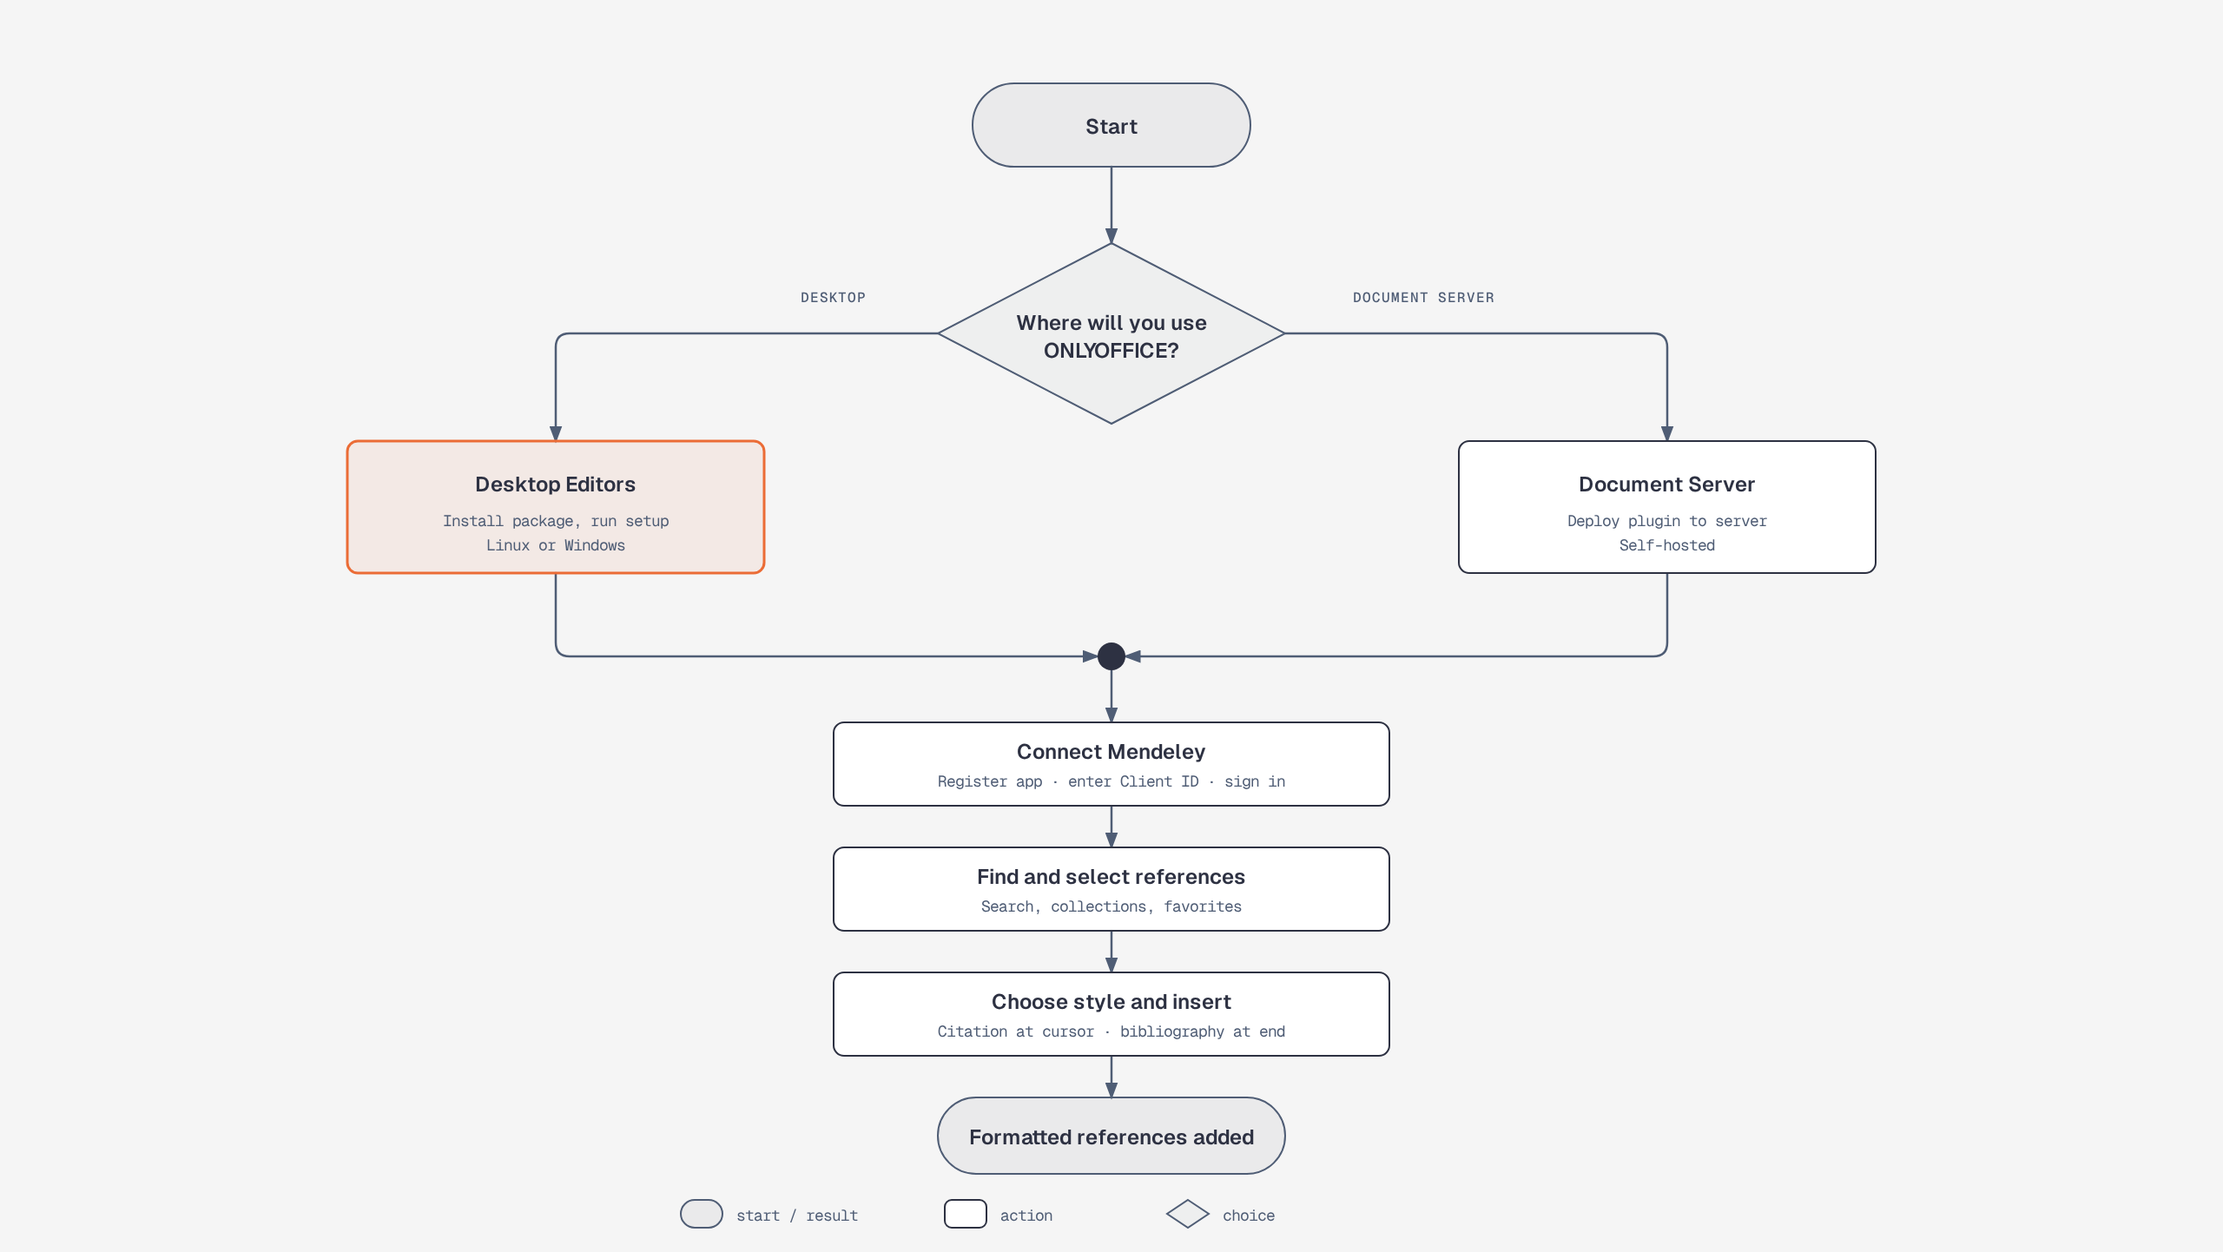
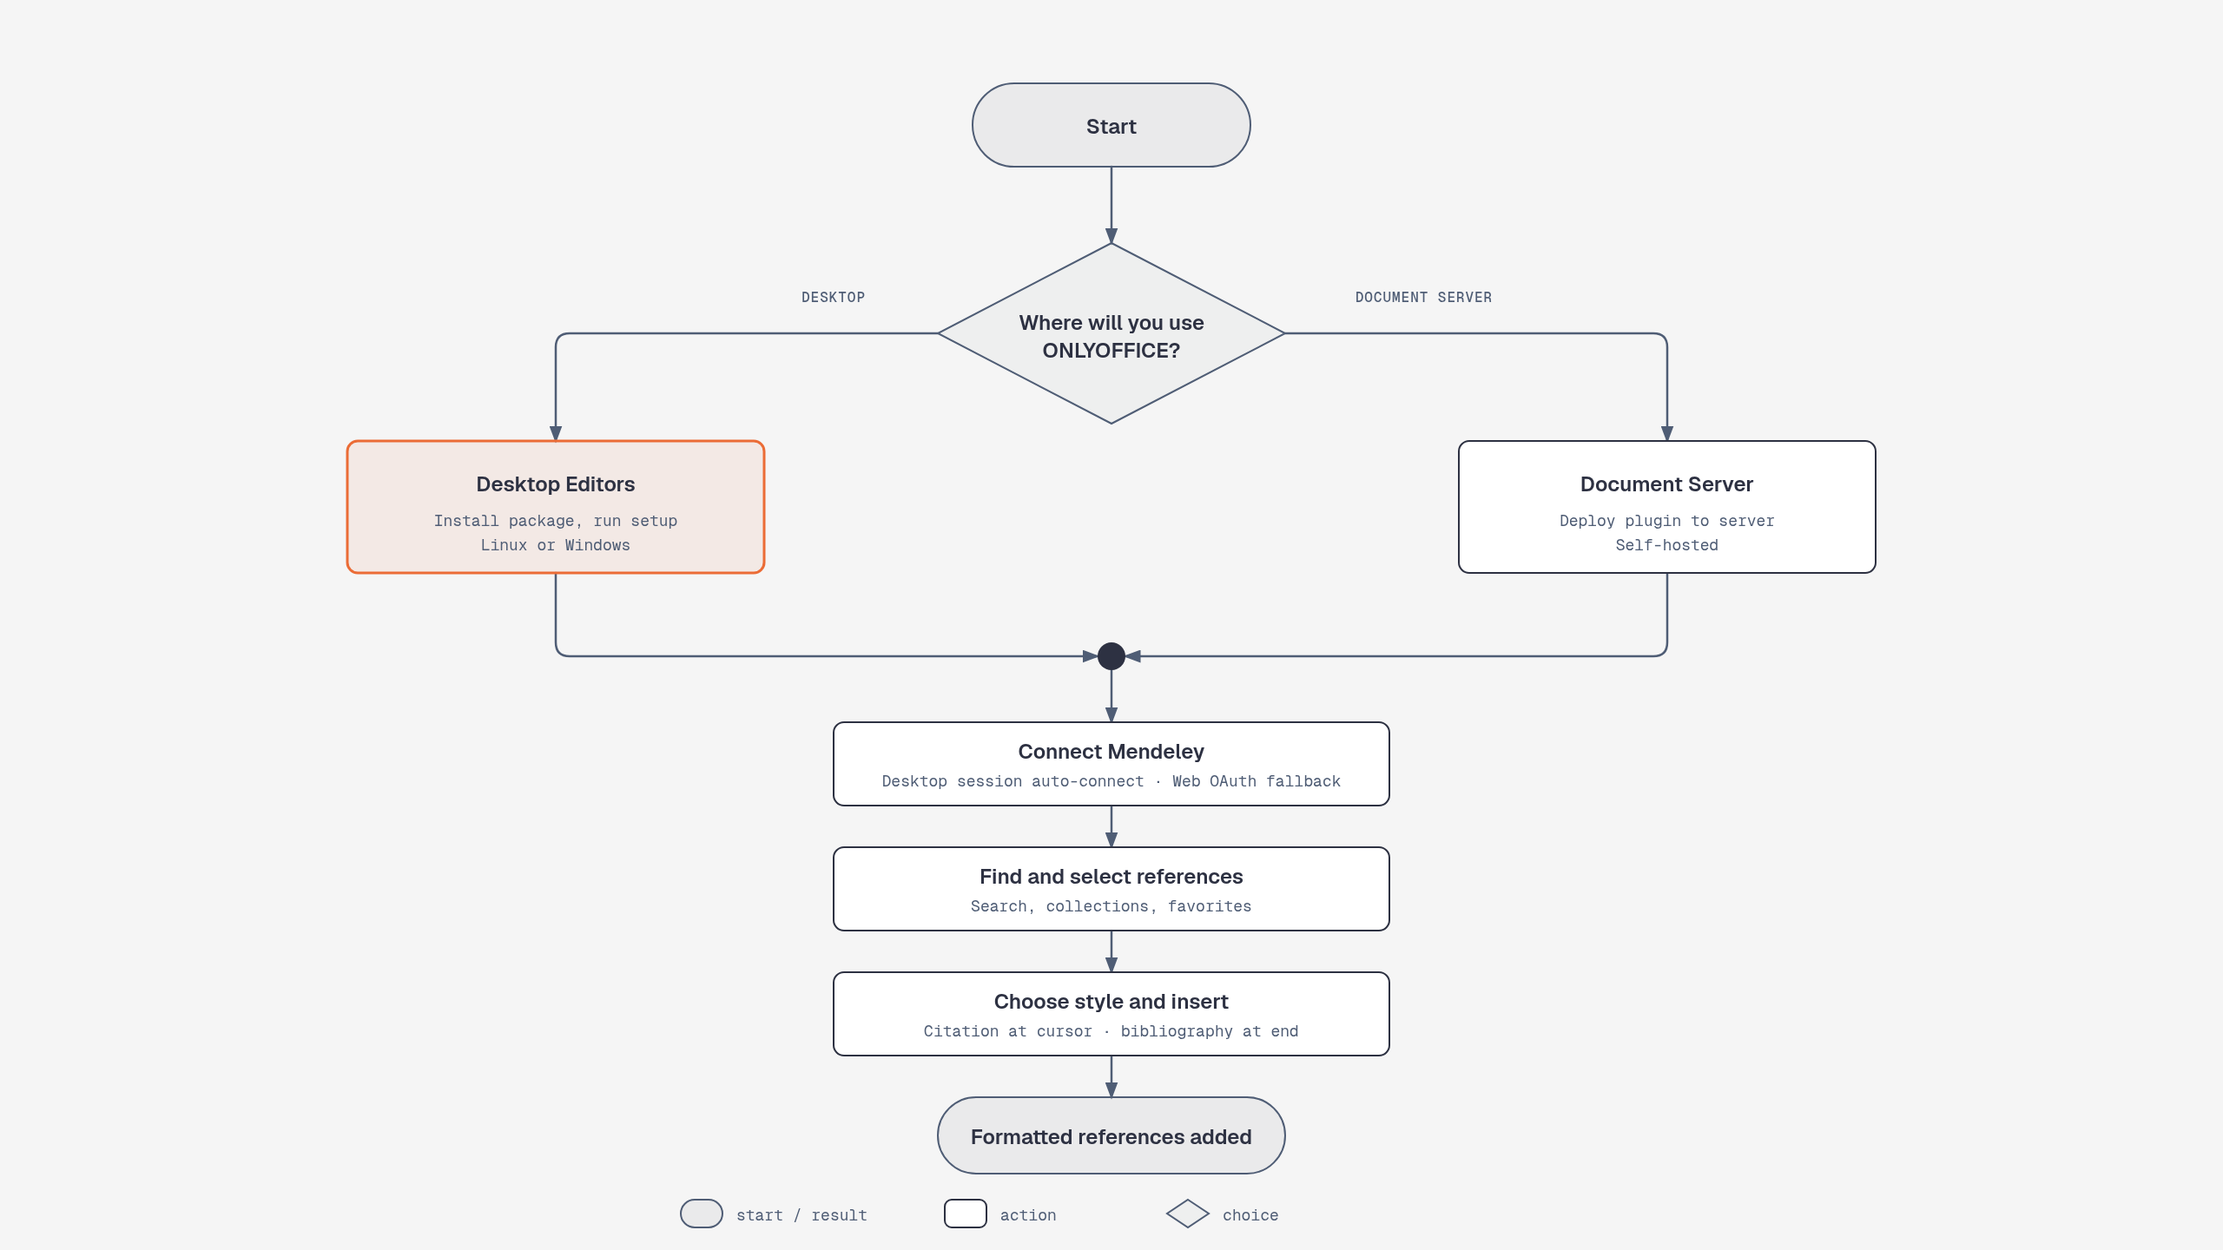
docs: update authentication and workflow diagrams

diff --git a/docs/mendeley-auth-sequence.html b/docs/mendeley-auth-sequence.html
@@ -35,86 +35,85 @@
     <div class="diagram-container">
       <svg viewBox="0 0 960 600" xmlns="http://www.w3.org/2000/svg" role="img" aria-labelledby="mendeley-auth-title mendeley-auth-desc">
         <title id="mendeley-auth-title">Mendeley OAuth flow</title>
-        <desc id="mendeley-auth-desc">Shows Desktop Editors and Document Server OAuth callbacks, token storage, and authenticated Mendeley API access.</desc>
+        <desc id="mendeley-auth-desc">Shows manual sign-in, helper token cleanup, Desktop and Document Server callbacks, local token storage, and authenticated API access.</desc>
         <defs>
           <marker id="mendeley-auth-arrow" markerWidth="8" markerHeight="6" refX="7" refY="3" orient="auto"><polygon points="0 0, 8 3, 0 6" fill="#4f5d75"/></marker>
           <marker id="mendeley-auth-arrow-return" markerWidth="8" markerHeight="6" refX="7" refY="3" orient="auto"><polygon points="0 0, 8 3, 0 6" fill="#4f5d75"/></marker>
           <marker id="mendeley-auth-arrow-link" markerWidth="8" markerHeight="6" refX="7" refY="3" orient="auto"><polygon points="0 0, 8 3, 0 6" fill="#2e5aa8"/></marker>
-          <marker id="mendeley-auth-arrow-accent" markerWidth="8" markerHeight="6" refX="7" refY="3" orient="auto"><polygon points="0 0, 8 3, 0 6" fill="#eb6c36"/></marker>
         </defs>
         <rect width="960" height="600" fill="#f5f5f5"/>
 
-        <g>
-          <rect x="156" y="156" width="744" height="256" rx="4" fill="rgba(45,49,66,0.02)" stroke="rgba(45,49,66,0.22)"/>
-          <rect x="156" y="156" width="40" height="16" rx="2" fill="#f5f5f5" stroke="rgba(45,49,66,0.22)"/>
-          <text x="176" y="168" fill="#4f5d75" font-family="'Geist Mono',monospace" font-size="8" text-anchor="middle" letter-spacing=".12em">ALT</text>
-          <text x="208" y="168" fill="#4f5d75" font-family="'Geist Mono',monospace" font-size="8">[Desktop Editors]</text>
-          <line x1="164" y1="312" x2="892" y2="312" stroke="rgba(45,49,66,0.20)" stroke-dasharray="4,3"/>
-          <text x="168" y="328" fill="#4f5d75" font-family="'Geist Mono',monospace" font-size="8">[Document Server]</text>
-        </g>
         <g fill="none" stroke="#7a8399" stroke-width="1" stroke-dasharray="3,3">
-          <line x1="156" y1="108" x2="156" y2="528"/>
-          <line x1="320" y1="108" x2="320" y2="528"/>
-          <line x1="505" y1="108" x2="505" y2="528"/>
-          <line x1="684" y1="108" x2="684" y2="528"/>
-          <line x1="852" y1="108" x2="852" y2="528"/>
+          <line x1="112" y1="104" x2="112" y2="536"/>
+          <line x1="296" y1="104" x2="296" y2="536"/>
+          <line x1="480" y1="104" x2="480" y2="536"/>
+          <line x1="664" y1="104" x2="664" y2="536"/>
+          <line x1="848" y1="104" x2="848" y2="536"/>
+        </g>
+
+        <g>
+          <rect x="276" y="152" width="596" height="296" rx="4" fill="rgba(45,49,66,0.02)" stroke="rgba(45,49,66,0.22)"/>
+          <rect x="276" y="152" width="40" height="16" rx="2" fill="#f5f5f5" stroke="rgba(45,49,66,0.22)"/>
+          <text x="296" y="164" fill="#4f5d75" font-family="'Geist Mono',monospace" font-size="8" text-anchor="middle" letter-spacing=".12em">ALT</text>
+          <text x="328" y="164" fill="#4f5d75" font-family="'Geist Mono',monospace" font-size="8">[Desktop Editors]</text>
+          <line x1="284" y1="332" x2="864" y2="332" stroke="rgba(45,49,66,0.20)" stroke-dasharray="4,3"/>
+          <text x="296" y="350" fill="#4f5d75" font-family="'Geist Mono',monospace" font-size="8">[Document Server]</text>
         </g>
 
         <g fill="none" stroke="#4f5d75" stroke-width="1.2" marker-end="url(#mendeley-auth-arrow)">
-          <line x1="156" y1="136" x2="320" y2="136"/>
-          <line x1="320" y1="196" x2="852" y2="196"/>
-          <line x1="320" y1="220" x2="505" y2="220"/>
-          <line x1="505" y1="244" x2="852" y2="244"/>
-          <line x1="320" y1="268" x2="852" y2="268"/>
-          <line x1="320" y1="340" x2="505" y2="340"/>
-          <line x1="505" y1="368" x2="684" y2="368"/>
+          <line x1="112" y1="128" x2="296" y2="128"/>
+          <line x1="296" y1="196" x2="848" y2="196"/>
+          <line x1="296" y1="224" x2="480" y2="224" marker-end="url(#mendeley-auth-arrow-link)"/>
+          <line x1="480" y1="252" x2="848" y2="252"/>
+          <line x1="296" y1="280" x2="848" y2="280"/>
+          <line x1="296" y1="376" x2="480" y2="376" marker-end="url(#mendeley-auth-arrow-link)"/>
+          <line x1="480" y1="404" x2="664" y2="404"/>
+          <line x1="296" y1="504" x2="480" y2="504" marker-end="url(#mendeley-auth-arrow-link)"/>
         </g>
-        <g fill="none" stroke="#4f5d75" stroke-width="1.2" stroke-dasharray="5,4">
-          <line x1="852" y1="292" x2="320" y2="292" marker-end="url(#mendeley-auth-arrow-return)"/>
-          <line x1="684" y1="396" x2="320" y2="396" marker-end="url(#mendeley-auth-arrow-return)"/>
+        <g fill="none" stroke="#4f5d75" stroke-width="1.2" stroke-dasharray="5,4" marker-end="url(#mendeley-auth-arrow-return)">
+          <line x1="848" y1="308" x2="296" y2="308"/>
+          <line x1="664" y1="432" x2="296" y2="432"/>
+          <line x1="480" y1="532" x2="296" y2="532"/>
         </g>
-        <g fill="none" stroke="#2e5aa8" stroke-width="1.2" marker-end="url(#mendeley-auth-arrow-link)">
-          <line x1="320" y1="472" x2="505" y2="472"/>
+        <g fill="none" stroke="#4f5d75" stroke-width="1.2">
+          <path d="M296 472h20v24h-20" marker-end="url(#mendeley-auth-arrow)"/>
         </g>
-        <g fill="none" stroke="#4f5d75" stroke-width="1.2" stroke-dasharray="5,4">
-          <line x1="505" y1="508" x2="320" y2="508" marker-end="url(#mendeley-auth-arrow-return)"/>
-        </g>
-
 
         <g font-family="'Geist Mono',monospace" font-size="8" text-anchor="middle" letter-spacing=".06em" fill="#7a8399">
-          <rect x="190" y="116" width="72" height="12" rx="2" fill="#f5f5f5"/><text x="226" y="125">LOGIN</text>
-          <rect x="550" y="176" width="72" height="12" rx="2" fill="#f5f5f5"/><text x="586" y="185">CLEAR TOKEN</text>
-          <rect x="370" y="200" width="84" height="12" rx="2" fill="#f5f5f5"/><text x="412" y="209">AUTHORIZE</text>
-          <rect x="630" y="224" width="96" height="12" rx="2" fill="#f5f5f5"/><text x="678" y="233">REDIRECT TOKEN</text>
-          <rect x="550" y="248" width="72" height="12" rx="2" fill="#f5f5f5"/><text x="586" y="257">GET /TOKEN</text>
-          <rect x="550" y="272" width="72" height="12" rx="2" fill="#f5f5f5"/><text x="586" y="281">TOKEN FILE</text>
-          <rect x="370" y="320" width="84" height="12" rx="2" fill="#f5f5f5"/><text x="412" y="329">AUTHORIZE</text>
-          <rect x="550" y="348" width="88" height="12" rx="2" fill="#f5f5f5"/><text x="594" y="357">OAUTH.HTML</text>
-          <rect x="460" y="388" width="84" height="12" rx="2" fill="#f5f5f5"/><text x="502" y="397">TOKEN + STATE</text>
-          <rect x="370" y="452" width="84" height="12" rx="2" fill="#f5f5f5"/><text x="412" y="461">BEARER TOKEN</text>
-          <rect x="370" y="488" width="84" height="12" rx="2" fill="#f5f5f5"/><text x="412" y="497">DOCS / 401</text>
+          <rect x="164" y="108" width="80" height="12" rx="2" fill="#f5f5f5"/><text x="204" y="117">LOGIN</text>
+          <rect x="520" y="176" width="104" height="12" rx="2" fill="#f5f5f5"/><text x="572" y="185">DELETE /TOKEN</text>
+          <rect x="340" y="204" width="96" height="12" rx="2" fill="#f5f5f5"/><text x="388" y="213">AUTHORIZE</text>
+          <rect x="608" y="232" width="112" height="12" rx="2" fill="#f5f5f5"/><text x="664" y="241">REDIRECT TOKEN</text>
+          <rect x="556" y="260" width="88" height="12" rx="2" fill="#f5f5f5"/><text x="600" y="269">GET /TOKEN</text>
+          <rect x="548" y="288" width="112" height="12" rx="2" fill="#f5f5f5"/><text x="604" y="297">TOKEN RESPONSE</text>
+          <rect x="340" y="356" width="96" height="12" rx="2" fill="#f5f5f5"/><text x="388" y="365">AUTHORIZE</text>
+          <rect x="520" y="384" width="104" height="12" rx="2" fill="#f5f5f5"/><text x="572" y="393">REDIRECT TOKEN</text>
+          <rect x="420" y="412" width="96" height="12" rx="2" fill="#f5f5f5"/><text x="468" y="421">OAUTH CALLBACK</text>
+          <rect x="324" y="452" width="112" height="12" rx="2" fill="#f5f5f5"/><text x="380" y="461">STORE TOKEN</text>
+          <rect x="332" y="484" width="128" height="12" rx="2" fill="#f5f5f5"/><text x="396" y="493">BEARER REQUEST</text>
+          <rect x="328" y="512" width="112" height="12" rx="2" fill="#f5f5f5"/><text x="384" y="521">DATA / 401</text>
         </g>
 
         <g font-family="'Geist',sans-serif" text-anchor="middle" fill="#2d3142">
-          <g><rect x="100" y="60" width="112" height="48" rx="6" fill="#ececec" stroke="#7a8399"/><text x="156" y="89" font-size="12" font-weight="600">User</text></g>
-          <g><rect x="248" y="60" width="144" height="48" rx="6" fill="rgba(235,108,54,0.08)" stroke="#eb6c36" stroke-width="1.2"/><text x="320" y="84" font-size="12" font-weight="600">ONLYOFFICE</text><text x="320" y="100" fill="#4f5d75" font-family="'Geist Mono',monospace" font-size="9">localStorage</text></g>
-          <g><rect x="432" y="60" width="146" height="48" rx="6" fill="#ffffff" stroke="#2d3142"/><text x="505" y="84" font-size="12" font-weight="600">Mendeley</text><text x="505" y="100" fill="#4f5d75" font-family="'Geist Mono',monospace" font-size="9">OAuth + API</text></g>
-          <g><rect x="624" y="60" width="120" height="48" rx="6" fill="#ffffff" stroke="#2d3142"/><text x="684" y="84" font-size="12" font-weight="600">oauth.html</text><text x="684" y="100" fill="#4f5d75" font-family="'Geist Mono',monospace" font-size="9">Document Server</text></g>
-          <g><rect x="780" y="60" width="144" height="48" rx="6" fill="#ececec" stroke="#7a8399"/><text x="852" y="84" font-size="12" font-weight="600">Loopback helper</text><text x="852" y="100" fill="#4f5d75" font-family="'Geist Mono',monospace" font-size="9">127.0.0.1:8080</text></g>
+          <g><rect x="56" y="56" width="112" height="48" rx="6" fill="#ececec" stroke="#7a8399"/><text x="112" y="85" font-size="12" font-weight="600">User</text></g>
+          <g><rect x="224" y="56" width="144" height="48" rx="6" fill="rgba(235,108,54,0.08)" stroke="#eb6c36" stroke-width="1.2"/><text x="296" y="80" font-size="12" font-weight="600">ONLYOFFICE</text><text x="296" y="96" fill="#4f5d75" font-family="'Geist Mono',monospace" font-size="9">plugin + localStorage</text></g>
+          <g><rect x="420" y="56" width="120" height="48" rx="6" fill="#ffffff" stroke="#2d3142"/><text x="480" y="80" font-size="12" font-weight="600">Mendeley</text><text x="480" y="96" fill="#4f5d75" font-family="'Geist Mono',monospace" font-size="9">OAuth + API</text></g>
+          <g><rect x="600" y="56" width="128" height="48" rx="6" fill="#ffffff" stroke="#2d3142"/><text x="664" y="80" font-size="12" font-weight="600">oauth.html</text><text x="664" y="96" fill="#4f5d75" font-family="'Geist Mono',monospace" font-size="9">Document Server</text></g>
+          <g><rect x="776" y="56" width="144" height="48" rx="6" fill="#ececec" stroke="#7a8399"/><text x="848" y="80" font-size="12" font-weight="600">Loopback helper</text><text x="848" y="96" fill="#4f5d75" font-family="'Geist Mono',monospace" font-size="9">127.0.0.1:8080</text></g>
         </g>
 
-        <line x1="40" y1="552" x2="920" y2="552" stroke="rgba(45,49,66,0.12)"/>
+        <text x="40" y="552" fill="#4f5d75" font-family="'Geist Mono',monospace" font-size="8">LOGIN CLEARS PLUGIN TOKEN · 401 RETURNS TO LOGIN · NO AUTO-REFRESH · DESKTOP LOGOUT LEAVES HELPER TOKEN</text>
+        <line x1="40" y1="568" x2="920" y2="568" stroke="rgba(45,49,66,0.12)"/>
         <g font-family="'Geist Mono',monospace" font-size="8" fill="#4f5d75">
-          <text x="40" y="576" letter-spacing=".14em">KEY</text>
-          <line x1="100" y1="573" x2="140" y2="573" stroke="#4f5d75" stroke-width="1.2" marker-end="url(#mendeley-auth-arrow)"/>
-          <text x="150" y="576">REQUEST</text>
-          <line x1="290" y1="573" x2="250" y2="573" stroke="#4f5d75" stroke-width="1.2" stroke-dasharray="5,4" marker-end="url(#mendeley-auth-arrow-return)"/>
-          <text x="300" y="576">RETURN</text>
-          <line x1="400" y1="573" x2="440" y2="573" stroke="#2e5aa8" stroke-width="1.2" marker-end="url(#mendeley-auth-arrow-link)"/>
-          <text x="450" y="576">API REQUEST</text>
-          <line x1="620" y1="573" x2="580" y2="573" stroke="#4f5d75" stroke-width="1.2" stroke-dasharray="5,4" marker-end="url(#mendeley-auth-arrow-return)"/>
-          <text x="630" y="576">401 RETURNS TO LOGIN</text>
+          <text x="40" y="588" letter-spacing=".14em">KEY</text>
+          <line x1="100" y1="585" x2="140" y2="585" stroke="#4f5d75" stroke-width="1.2" marker-end="url(#mendeley-auth-arrow)"/>
+          <text x="150" y="588">REQUEST</text>
+          <line x1="250" y1="585" x2="210" y2="585" stroke="#4f5d75" stroke-width="1.2" stroke-dasharray="5,4" marker-end="url(#mendeley-auth-arrow-return)"/>
+          <text x="260" y="588">RETURN</text>
+          <line x1="360" y1="585" x2="400" y2="585" stroke="#2e5aa8" stroke-width="1.2" marker-end="url(#mendeley-auth-arrow-link)"/>
+          <text x="410" y="588">API REQUEST</text>
         </g>
+
       </svg>
     </div>
   </main>

diff --git a/docs/images/mendeley-workflow.html b/docs/images/mendeley-workflow.html
@@ -44,7 +44,7 @@
     <div class="diagram-container">
       <svg viewBox="0 0 1280 720" role="img" aria-labelledby="mendeley-workflow-title mendeley-workflow-desc" xmlns="http://www.w3.org/2000/svg">
         <title id="mendeley-workflow-title">Use Mendeley in ONLYOFFICE</title>
-        <desc id="mendeley-workflow-desc">Choose Desktop Editors or Document Server, connect a Mendeley account, find references, and insert citations or a bibliography.</desc>
+        <desc id="mendeley-workflow-desc">Choose Desktop Editors or Document Server, connect through Desktop session auto-detection or manual Web OAuth, find references, and insert citations or a bibliography.</desc>
         <defs>
           <marker id="arrow" markerWidth="8" markerHeight="6" refX="7" refY="3" orient="auto"><path d="M0 0L8 3L0 6Z" fill="#4f5d75"/></marker>
         </defs>
@@ -97,7 +97,7 @@
         <g aria-label="Configure Mendeley">
           <rect class="action" x="480" y="416" width="320" height="48" rx="6"/>
           <text class="name" x="640" y="437">Connect Mendeley</text>
-          <text class="sub" x="640" y="453">Register app · enter Client ID · sign in</text>
+          <text class="sub" x="640" y="453">Desktop session auto-connect · Web OAuth fallback</text>
         </g>
 
         <g aria-label="Find references">

diff --git a/README.md b/README.md
@@ -118,12 +118,13 @@ If you prefer using a Mendeley developer OAuth application:
 
 ### Token behavior
 
-The plugin sends the access token as a Bearer token when requesting library data. It does not refresh tokens automatically. If Mendeley rejects a token with `401`, the plugin clears its local session and asks you to sign in again.
+The plugin reuses its browser-stored `mendToken` at startup. If none exists, Desktop Editors checks the loopback helper at `127.0.0.1:8080/token`; the helper returns its per-user token file or detects the signed-in Mendeley Reference Manager session. If neither provides a token, use manual Web OAuth.
 
-- **Desktop Editors:** the helper at `127.0.0.1:8080` receives and saves a per-user token. The plugin reads it from the helper and stores its own copy in browser storage.
-- **Document Server:** Mendeley redirects to `oauth.html`, which passes the token to the plugin window. The plugin stores the token in browser storage.
+- **Desktop Editors:** Mendeley redirects to the loopback helper, which saves the token. The plugin polls `/token` and stores its own copy in browser storage.
+- **Document Server:** Mendeley redirects to the plugin's `oauth.html`, which passes the token to the plugin window. The plugin stores it in browser storage.
+- **API and session:** The plugin sends the access token as a Bearer token. It does not refresh tokens automatically. A `401` clears the plugin's browser-stored token and returns to sign-in.
 
-Logging out clears the plugin's browser-stored token. In Desktop Editors, the helper's saved copy remains, so the plugin can restore the session when reopened. Starting a new login clears that helper copy first.
+Logging out clears the plugin's browser-stored token. In Desktop Editors, the helper's saved token remains, so the plugin can restore the session when reopened. Starting a new manual login clears both plugin and helper token copies first.
 
 ## Use the plugin
 

diff --git a/docs/commits/docs-update-authentication-workflow.md b/docs/commits/docs-update-authentication-workflow.md
@@ -1,0 +1,9 @@
+# Update Mendeley Authentication Diagrams
+
+## Change
+Updated OAuth sequence and workflow diagrams to reflect Desktop auto-connect, manual Web OAuth callbacks, token storage, API access, and session behavior. Updated README token guidance and regenerated both PNG assets.
+
+## Verification
+- `python3 scripts/self_check.py docs/mendeley-auth-sequence.html`: passed.
+- `python3 scripts/self_check.py docs/images/mendeley-workflow.html`: passed.
+- PNGs verified: `docs/mendeley-auth-sequence.png` (1920 × 1200), `docs/images/mendeley-workflow.png` (2560 × 1440).
